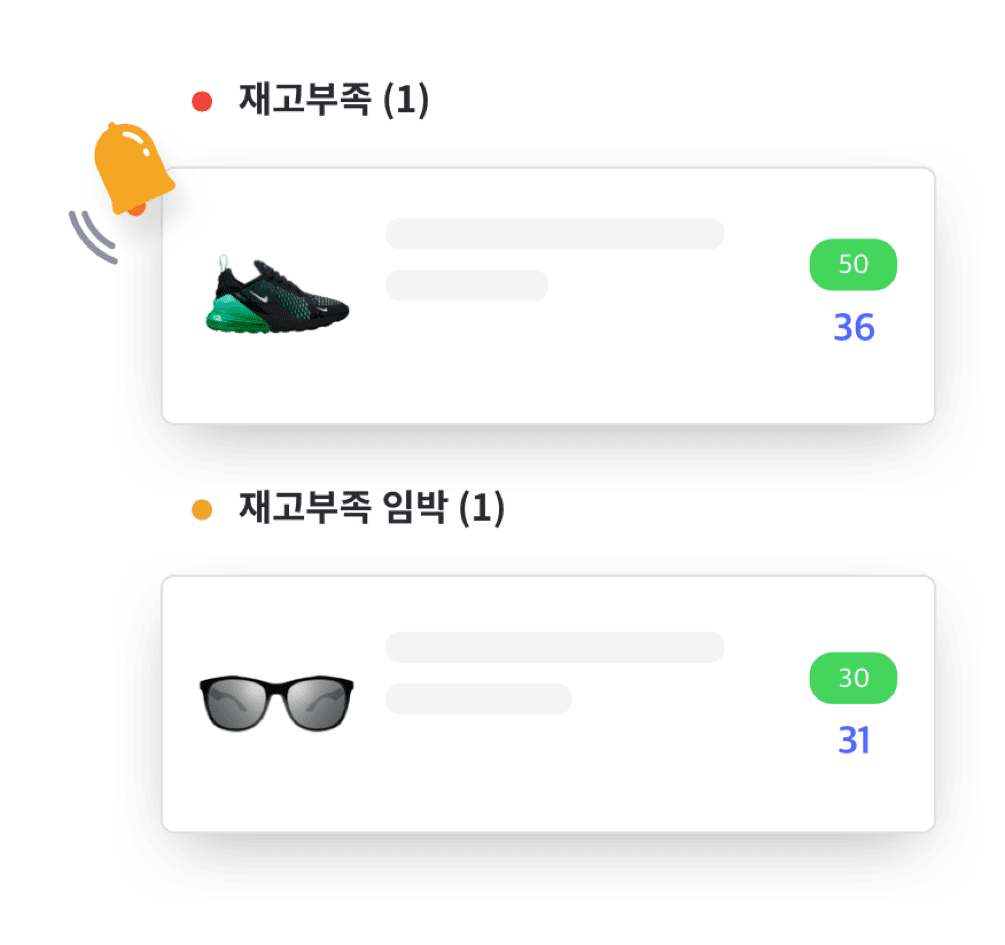
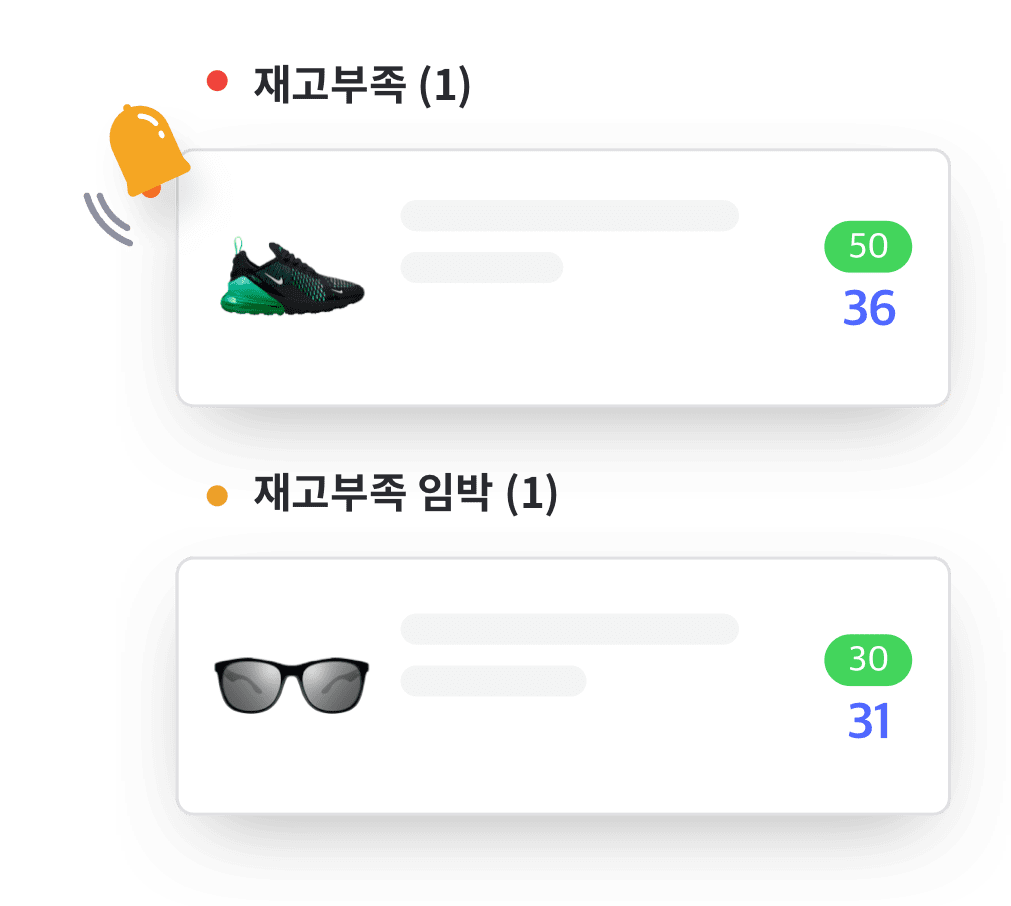
모바일 편의기능 이미지들 퀄리티 100 설정

diff --git a/src/pages/features.js b/src/pages/features.js
@@ -345,6 +345,7 @@ export const query = graphql`
       childImageSharp {
         gatsbyImageData(
           width: 335
+          quality: 100
           tracedSVGOptions: {
             turnPolicy: TURNPOLICY_MAJORITY
             turdSize: 1
@@ -399,6 +400,7 @@ export const query = graphql`
       childImageSharp {
         gatsbyImageData(
           width: 335
+          quality: 100
           tracedSVGOptions: {
             turdSize: 1
             color: "#f0f0f3"
@@ -453,6 +455,7 @@ export const query = graphql`
       childImageSharp {
         gatsbyImageData(
           width: 335
+          quality: 100
           tracedSVGOptions: {
             turdSize: 1
             color: "#f0f0f3"
@@ -507,6 +510,7 @@ export const query = graphql`
       childImageSharp {
         gatsbyImageData(
           width: 335
+          quality: 100
           tracedSVGOptions: {
             turdSize: 1
             color: "#f0f0f31f"
@@ -561,6 +565,7 @@ export const query = graphql`
       childImageSharp {
         gatsbyImageData(
           width: 335
+          quality: 100
           tracedSVGOptions: {
             turnPolicy: TURNPOLICY_MAJORITY
             turdSize: 1
